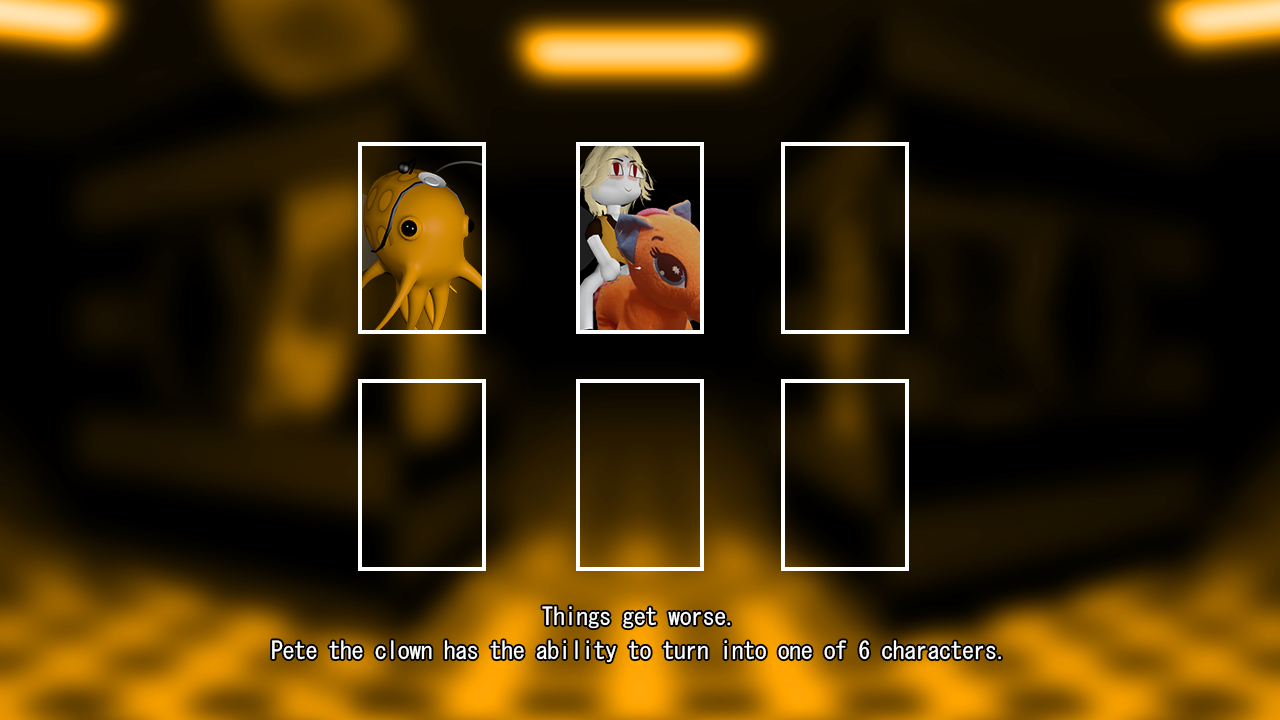
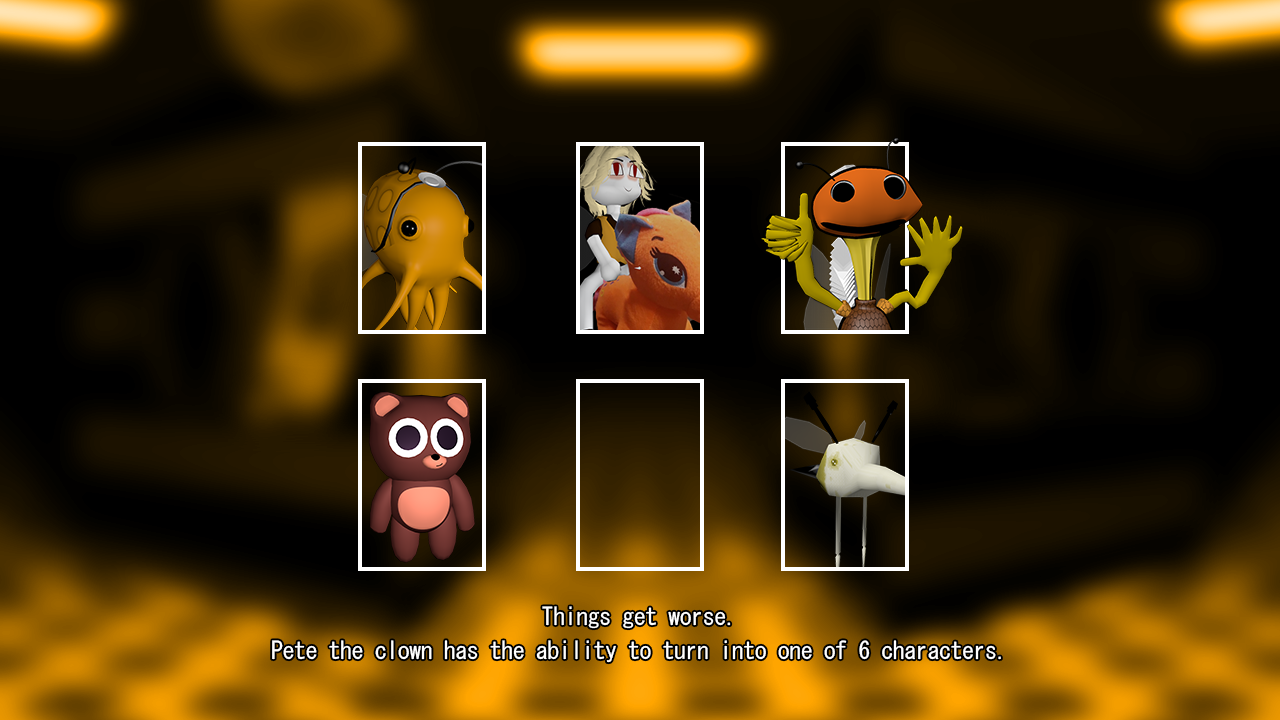
prefinal

Changed region(s): [[0.5938, 0.2139, 0.75, 0.4583], [0.2812, 0.55, 0.375, 0.7944], [0.5938, 0.5806, 0.7188, 0.7639]]

diff --git a/funkybees.html b/funkybees.html
@@ -28,12 +28,9 @@
 </head>
 <body>
     <img src="assets/funkybees/logo.png" class="center">
-    <div align="center">
-    <audio controls autoplay>
-  <source src="assets/funkybees/Fredlaugh4.ogg" type="audio/ogg">
-Your browser does not support the audio element.
-</audio>
-</div>
-    <img src="assets/funkybees/AAAAAAAAAA.png" class="center_image">
+    <img src="assets/funkybees/cn1.png" class="center_image">
+    <br>
+    <img src="assets/funkybees/extra.png" class="center_image">
+    <p><br>haiiii :DDD</p>
 </body>
 </html>
